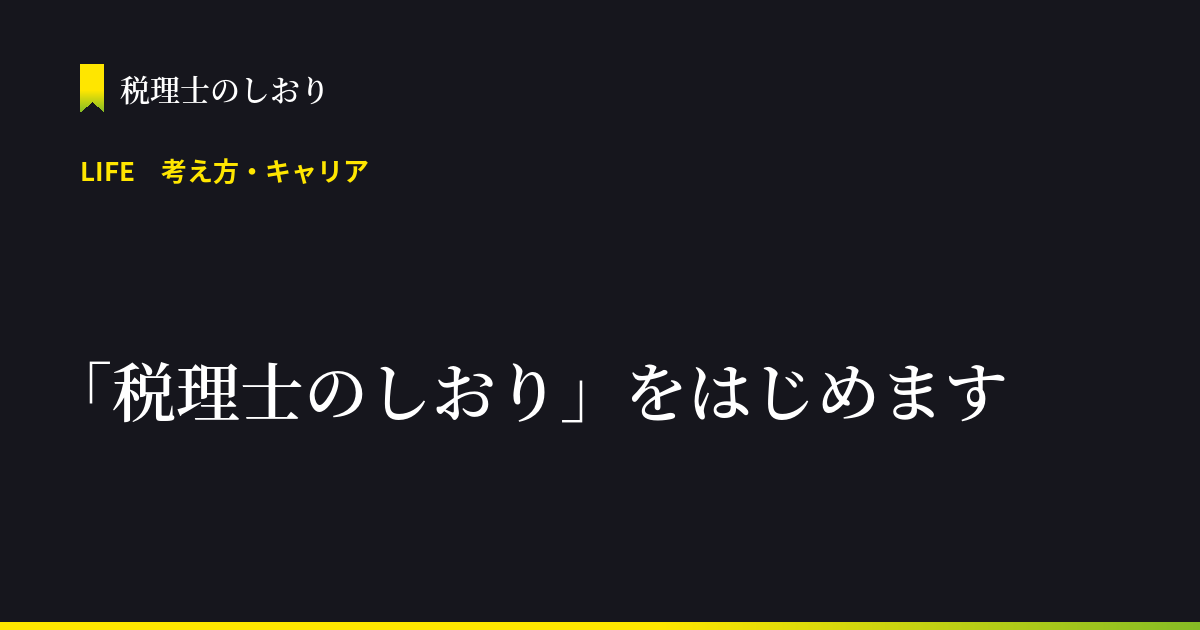
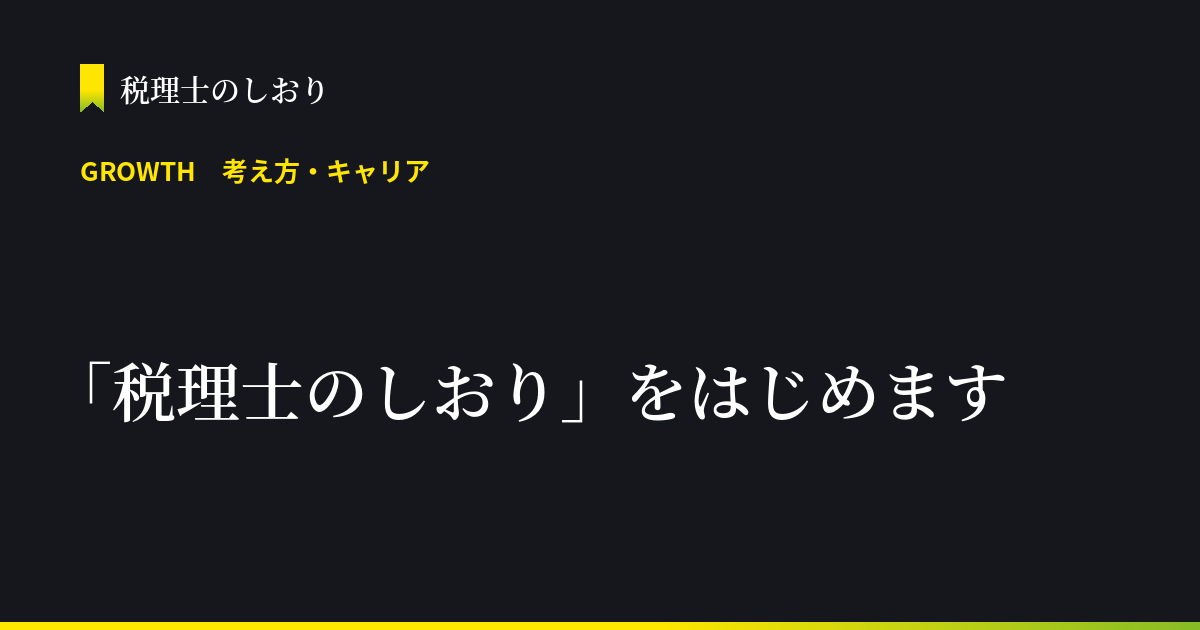
柱の名前を LIFE（学びと働き方）→ GROWTH（学びと成長）に
- WORK（会社の実務）と「働き方」が重なっていたため、2つめの柱を個人の学びと成長として名前を付け直す。4分野の中身はそのまま
- URL を /life/ → /growth/ に。旧URL（分野・小カテゴリー含む）は転送ページで新URLへ
- ナビ・トップの説明・このブログ・筆者紹介・hello-shiori（更新履歴つき）・Pages CMS の選択肢・CLAUDE.md を更新
- hello-shiori の OGP 画像を作り直し

Claude-Session: https://claude.ai/code/session_01G4HRpXq2DkBpF64q5hDxF3

Changed region(s): [[0.0617, 0.2413, 0.37, 0.3016]]

diff --git a/src/lib.ts b/src/lib.ts
@@ -15,7 +15,7 @@ export async function getDrafts() {
 }
 
 /** 記事が属する大分類 */
-export const pillarOfPost = (p: Post) => midOf(p.data.category)?.pillar ?? 'life';
+export const pillarOfPost = (p: Post) => midOf(p.data.category)?.pillar ?? 'growth';
 
 /** 件数の集計（中カテゴリー・小カテゴリー・大分類・タグ・記事タイプ） */
 export function countBy(posts: Post[]) {

diff --git a/CLAUDE.md b/CLAUDE.md
@@ -56,9 +56,10 @@
 
 ## 分類（2026/11/20 作り直し）
 
-- 柱は2つ：WORK（実務、13分野）と LIFE（学びと働き方、4分野）。定義は src/data/taxonomy.json の pillars・mids（中カテゴリー）・topics（小カテゴリー）
+- 柱は2つ：WORK（会社の実務、13分野）と GROWTH（学びと成長、4分野）。定義は src/data/taxonomy.json の pillars・mids（中カテゴリー）・topics（小カテゴリー）
+- 柱の軸：WORK＝会社の実務（経営の機能別）、GROWTH＝自分を育てる学びと習慣（個人の側）。GROWTHの名前や説明に「働き方」を使わない（WORKと重なるため）。2026/11/21 に LIFE（学びと働き方）から改名し、/life/ は /growth/ へ転送している
 - WORK の13分野：01 経営戦略／02 マーケティング／03 営業／04 組織／05 人事・労務／06 会計／07 税務／08 財務／09 オペレーション／10 DX／11 イノベーション／12 事業承継／13 M&A。名前に「戦略」は付けない（手続きの記事が「戦略」の下に来ると不自然で、検索のことばとも合わないため。経営戦略だけは例外）
-- LIFE の4分野：勉強法・資格／学び直し・読書／仕事術・習慣／考え方・キャリア
+- GROWTH の4分野：勉強法・資格／学び直し・読書／仕事術・習慣／考え方・キャリア（中身は改名前のまま。見直すときは、チームづくり・コミュニケーションなどWORKの組織と重なる小カテゴリーから）
 - 分野の番号は柱ごとに並び順で自動で付く（`midNo()`）。各分野の `desc` がページの説明文と分野カードの説明になる
 - 小カテゴリーの slug はサイト全体で重複させない（記事の topic から分野を自動で補正するため）
 - 分類のURLを変えたときは、旧URL → 新URL を src/data/redirects.json に足す（転送用のページが自動で作られる）。記事のURL（/posts/〜/）は分類を変えても変わらない

diff --git a/src/content/posts/hello-shiori.md b/src/content/posts/hello-shiori.md
@@ -14,6 +14,10 @@ tags:
 - 税理士受験生向け
 - 社労士受験生向け
 - 診断士受験生向け
+updatedDate: 2026-11-21
+updates:
+- date: 2026-11-21
+  note: 2つめの柱の名前を、LIFE（学びと働き方）からGROWTH（学びと成長）に変えました。WORKとの重なりをなくすためです。
 draft: false
 ---
 ## しおりをはさむ、という感覚で
@@ -24,12 +28,12 @@ draft: false
 
 ## 書くこと
 
-このブログは、WORK・LIFEの2つの柱でできています。
+このブログは、WORK・GROWTHの2つの柱でできています。WORKは会社の実務、GROWTHは自分を育てるための学びと習慣です。
 
 | 柱 | 中身 |
 |---|---|
 | WORK | 経営を機能ごとに分けた、13分野の実務の論点 |
-| LIFE | 勉強法と資格、学び直し、仕事術と習慣、考え方とキャリア |
+| GROWTH | 勉強法と資格、学び直し、仕事術と習慣、考え方とキャリア |
 
 ### WORKの13分野
 

diff --git a/src/content/pages/about.md b/src/content/pages/about.md
@@ -7,10 +7,10 @@ description: "税理士のしおりの書き手と、書いていることにつ
 
 ## 書いていること
 
-WORK・LIFEの2つの柱で書いています。
+WORK・GROWTHの2つの柱で書いています。WORKは会社の実務、GROWTHは自分を育てるための学びと習慣です。
 
 - **WORK**：経営を機能ごとに分けた13分野の実務の論点（経営戦略・マーケティング・営業・組織・人事労務・会計・税務・財務・オペレーション・DX・イノベーション・事業承継・M&A）
-- **LIFE**：勉強法と資格、学び直しと読書、仕事術と習慣、考え方とキャリア
+- **GROWTH**：勉強法と資格、学び直しと読書、仕事術と習慣、考え方とキャリア
 
 あわせて、実務と勉強で使っている自作ツールも紹介します。
 

diff --git a/README.md b/README.md
@@ -36,7 +36,7 @@
 
 | 項目 | 内容 | 定義ファイル |
 |---|---|---|
-| 大分類 | WORK / LEARNING / LIFE | `src/data/taxonomy.json` の pillars |
+| 大分類 | WORK / GROWTH | `src/data/taxonomy.json` の pillars |
 | 中カテゴリー（category） | 36個。WORKは理念→企業戦略→競争戦略→機能別戦略の4層 | 同 mids |
 | 小カテゴリー（topic） | 169個 | 同 mids[].topics |
 | タグ（tags） | 資格・読者・会社のステージ・業種・時事・視点。1記事に最大5個 | 同 tagGroups |
